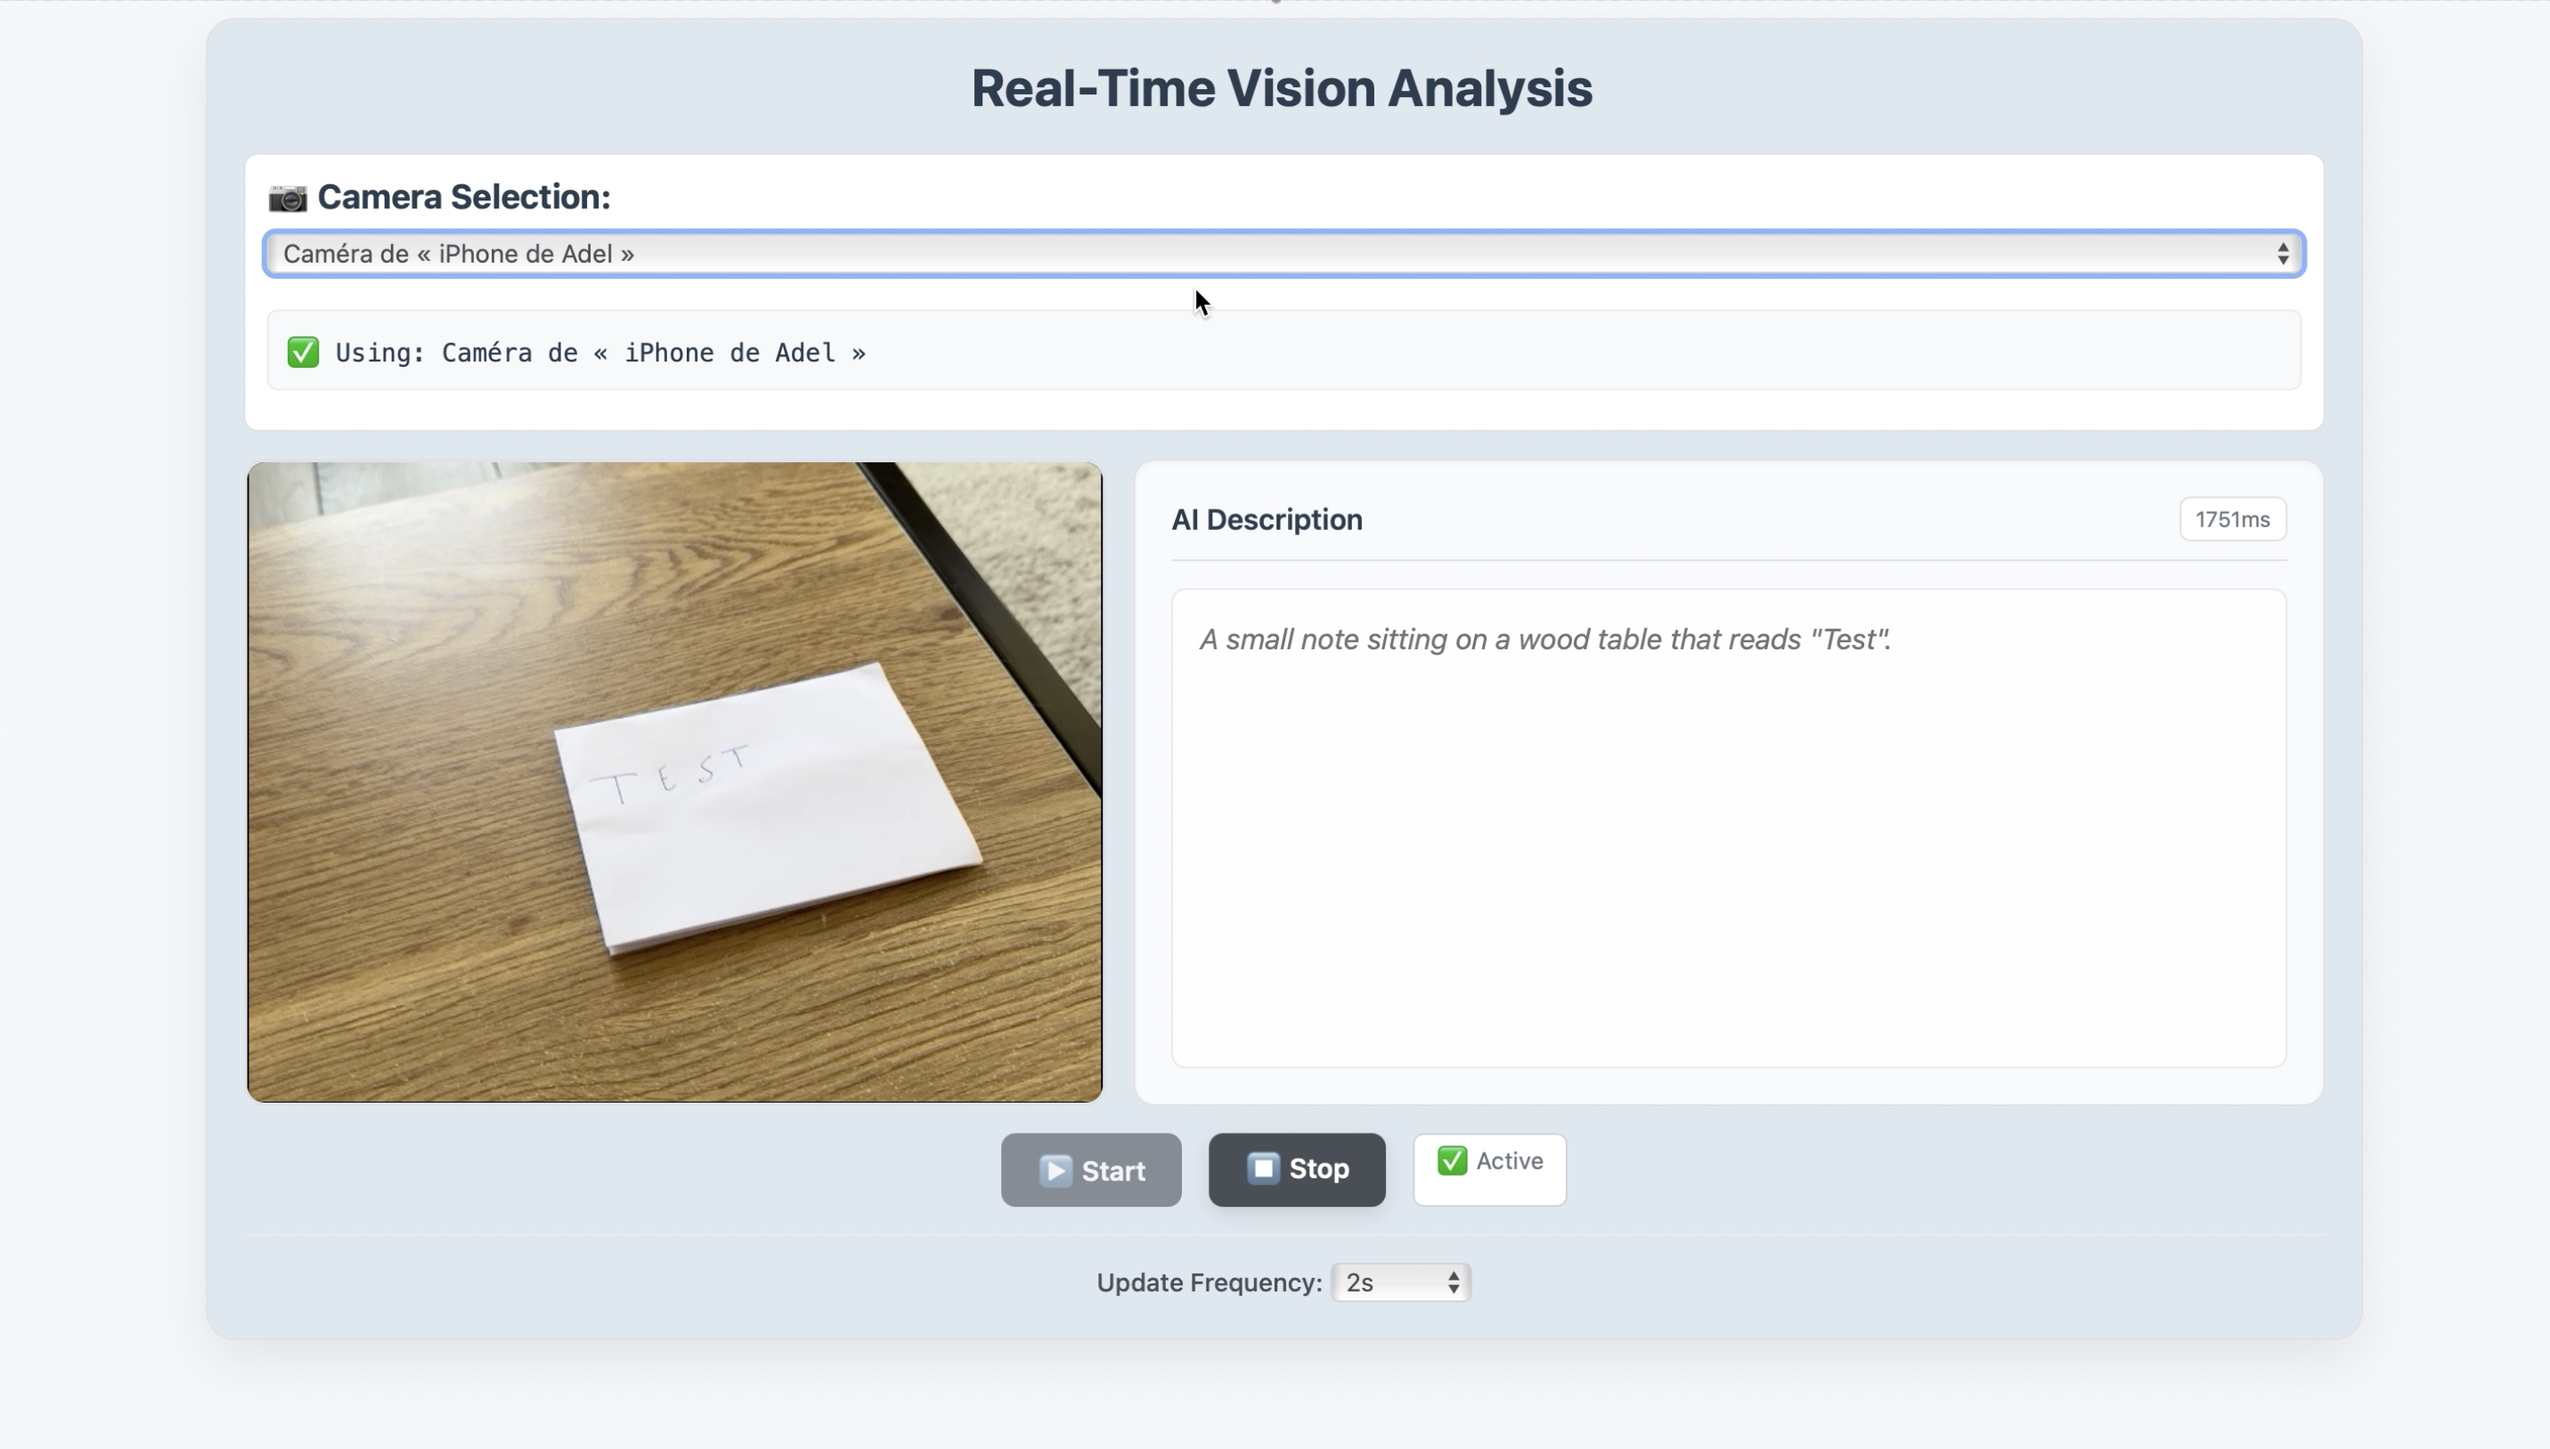
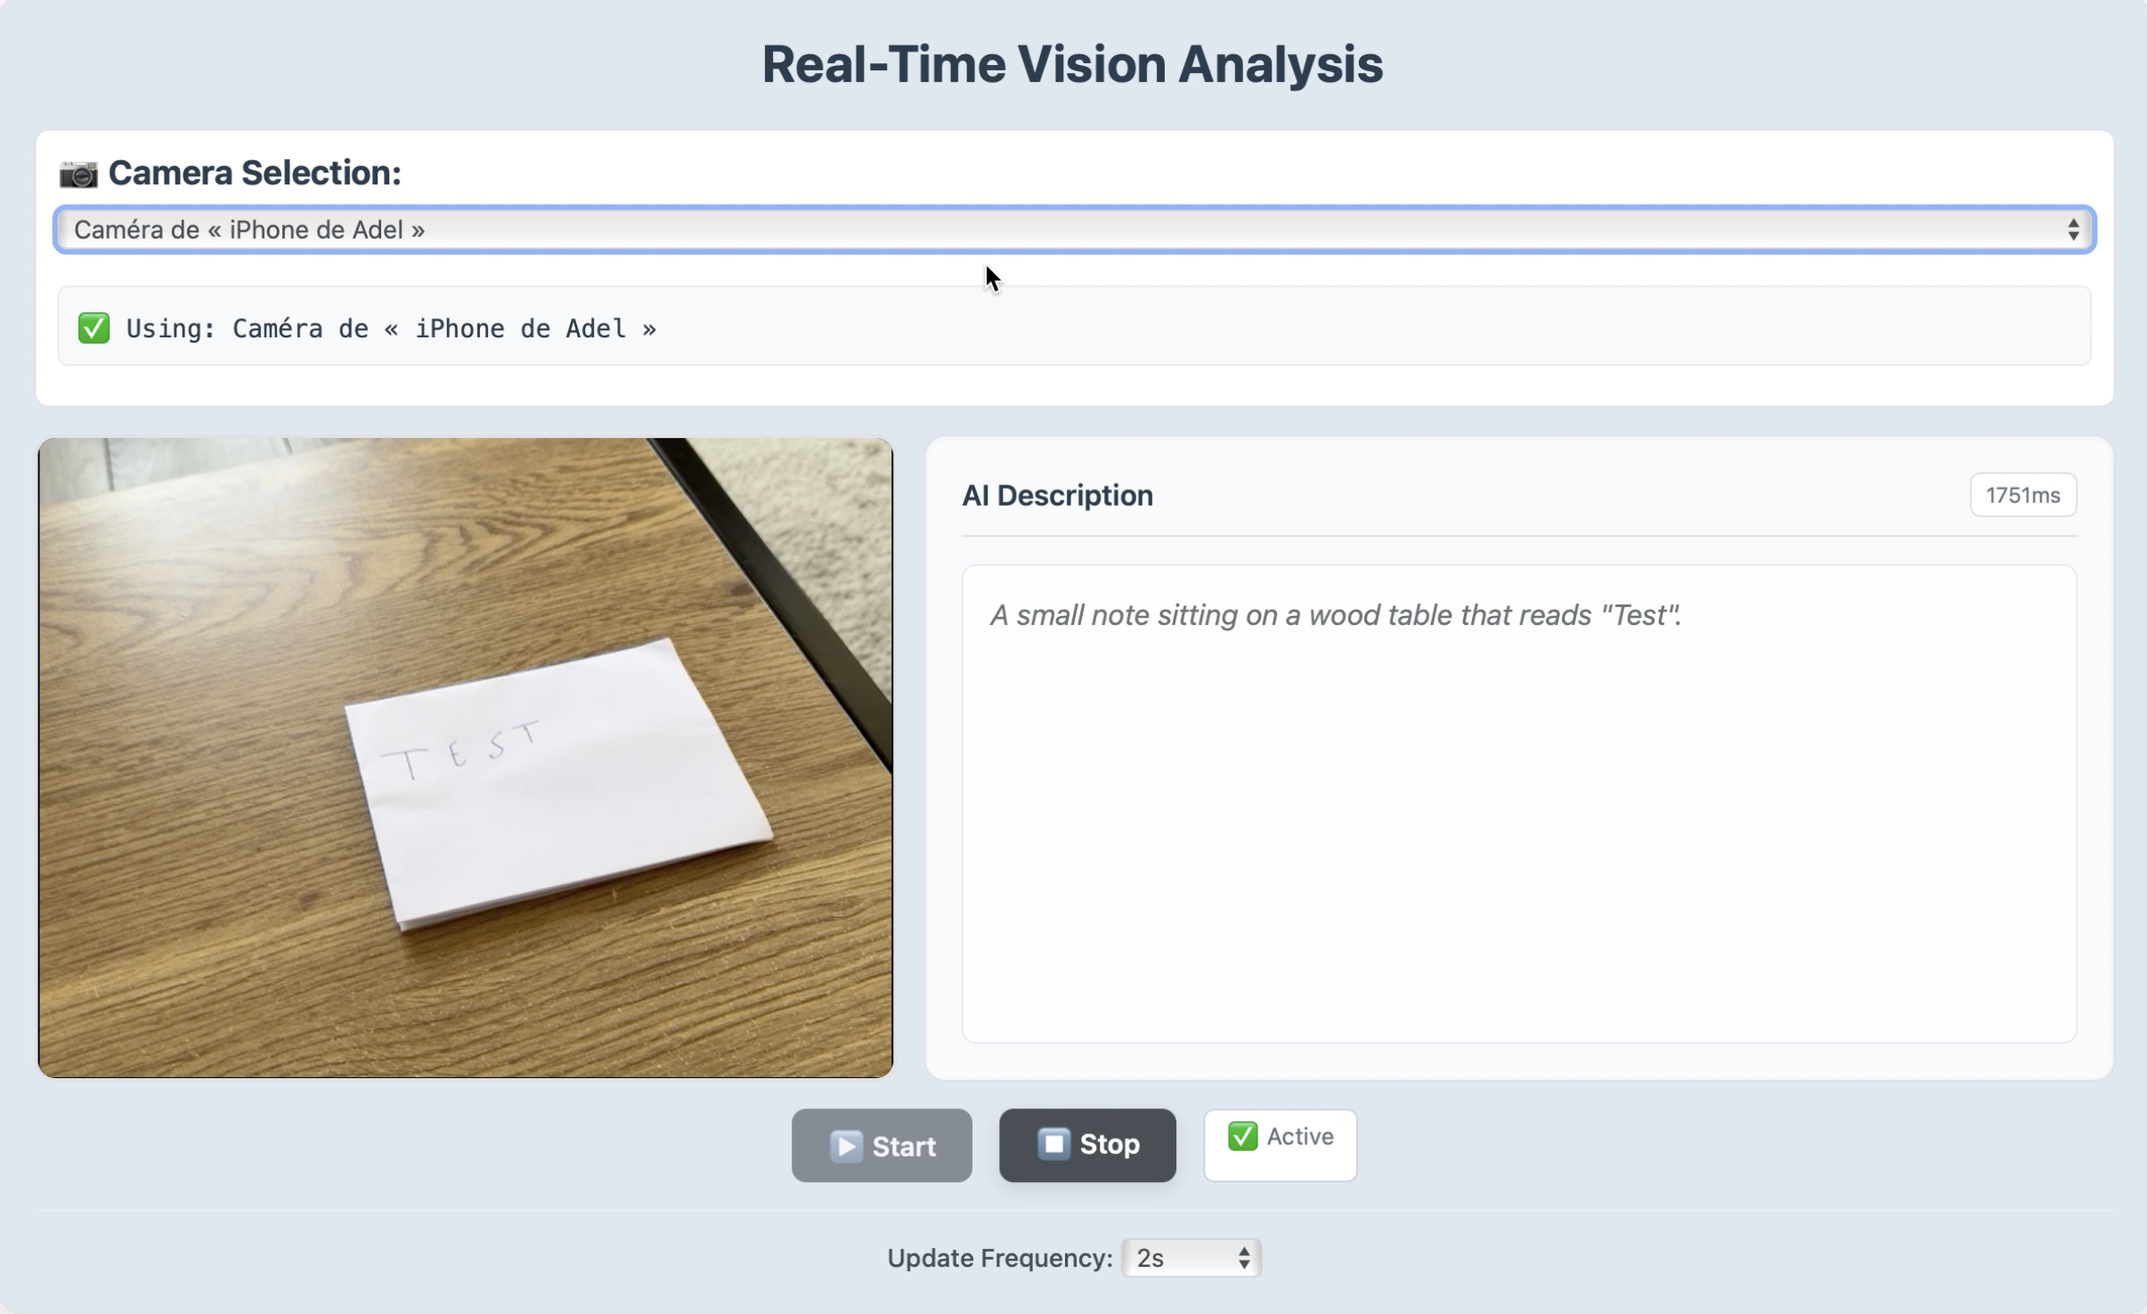
fix: cropped and updated demo image for better display in README

Changed region(s): [[0.0, 0.0312, 0.9954, 0.9038], [0.4044, 0.935, 0.591, 0.9661]]

diff --git a/README.md b/README.md
@@ -14,7 +14,7 @@
 </p>
 
 <p align="center">
-  <img src="./realtime_vision_demo.png" alt="Demo Screenshot" width="720"/>
+  <img src="./realtime_vision_demo.png" alt="Demo" width="900"/>
 </p>
 
 A web-based application that performs real-time AI vision analysis using your webcam or iPhone/smartphone camera.  
